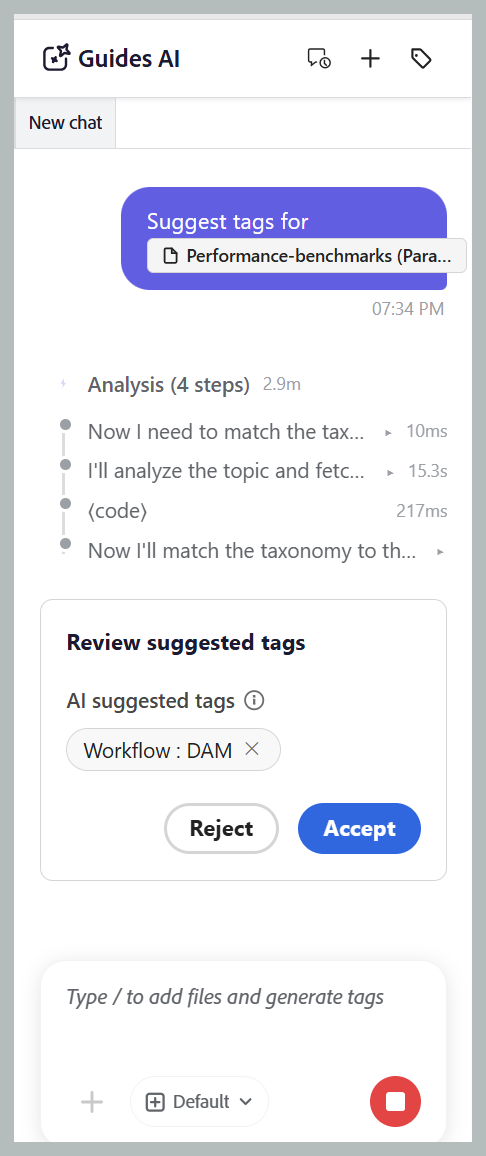
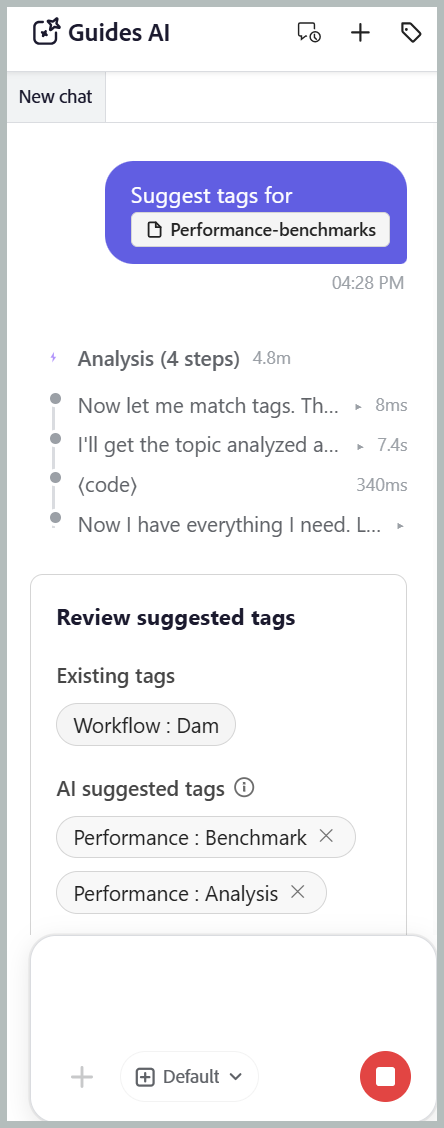
updated images and content for Guides AI

diff --git a/help/product-guide/user-guide/guides-ai.md b/help/product-guide/user-guide/guides-ai.md
@@ -9,11 +9,11 @@ description: Learn how to use Guides AI for smart tagging capability for topics 
 >
 > Guides AI is available in Experience Manager Guides as a Cloud Service starting with 2026.08.0 release. Contact your Customer Success team to enable this feature.
 
-Guides AI helps you organize and manage content more efficiently by using AI to generate relevant tag recommendations. The Smart Tagging skill analyzes your content, suggests tags based on your organization's taxonomy, and lets you review and apply the recommendations, reducing manual effort while ensuring consistent metadata across your documentation.
+Guides AI makes tagging your content faster, easier, and more consistent. Instead of manually reading through your content and deciding which tags to apply, Guides AI analyzes the content for you and recommends relevant tags based on your organization's taxonomy. You stay in control by reviewing and applying the suggested tags, while significantly reducing manual effort, improving tagging accuracy, and ensuring consistent metadata across your documentation.
 
 ## Guides AI panel
 
-The Guides AI interface provides all the tools you need to generate, review, and apply Smart tags:
+The Guides AI panel provides all the tools you need to generate, review, and apply AI suggested tags:
 
 ![Guides AI panel](images/guides-ai-panel.png){width="650"}
 
@@ -28,14 +28,8 @@ The following components help you add files, configure tag recommendations, and 
 - **(G)** Model: Displays the AI model that will be used to analyze the content and generate tag recommendations.
 - **(H)** Send: Submit your prompt and attached content to generate AI-powered tag recommendations.
 
-## How Smart Tagging works
 
-Smart Tagging analyzes the content of your topics or maps and recommends relevant metadata tags based on your organization's existing taxonomy. Instead of manually identifying and applying tags, you can ask Guides AI to generate recommendations, review them, and apply only the
-ones you want.
-
-The recommendations are generated using your configured AEM taxonomy, ensuring that suggested tags remain consistent with your organization's metadata strategy.
-
-## 	Generate AI tags for a topic
+## 	Generate AI suggested tags for a topic or map
 
 Perform the following steps to use Guides AI for tagging files: 
 
@@ -57,10 +51,14 @@ Perform the following steps to use Guides AI for tagging files:
 
 1. Review the suggested tags. **Accept** the recommendations to apply them, or **Reject** them if they are not required.
 
+    >[!NOTE]
+    >
+    > For topics that already contain tags, Guides AI displays the existing tags. These tags are read-only and cannot be modified or removed.
+
     ![Guides AI panel response after analysis of the content](images/guides-ai-tags-review.png){width="650"}
 
 
-## Generate AI tags for multiple topics in a map
+## Generate AI suggested tags for bulk topics in a map
 
 Use Smart Tagging to generate tag recommendations for multiple topics in a map in a single operation. After you add a map, Guides AI prompts you to select the topics to analyze, allowing you to generate recommendations only for the required topics. You can select up to **25 topics** in a single request.
 
@@ -90,7 +88,6 @@ To generate tag recommendations for multiple topics in a map:
 
         ![Selecting topics dialog while applying tags](images/ai-select%20dialog.png){width="650"}  
         
-
 5. Select **Confirm**. Guides AI analyzes the selected topics and displays the number of tag recommendations generated for each topic.
 
 6. Select **Preview** to review the AI-generated tag recommendations.
